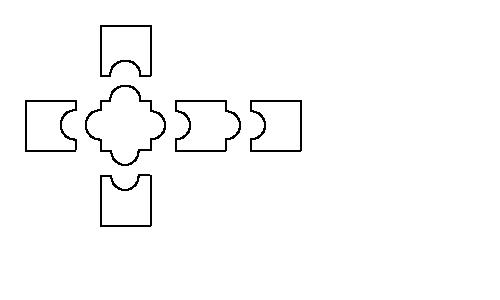
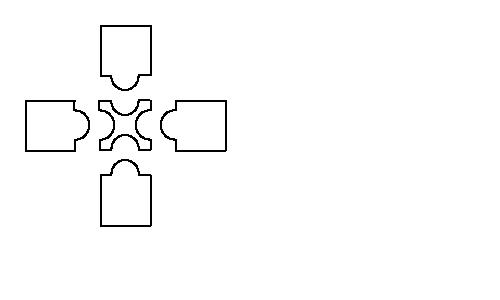
Added concave parameter to allow convex and concave.

Changed region(s): [[0.12, 0.21, 0.39, 0.66], [0.45, 0.33, 0.63, 0.51], [0.24, 0.18, 0.27, 0.21]]

diff --git a/backend/model/generate_training_data.py b/backend/model/generate_training_data.py
@@ -2,6 +2,7 @@ from PIL import Image, ImageDraw
 import math
 
 
+
 class Piece:
 
     pieces_count = 0
@@ -75,9 +76,8 @@ class Piece:
 
         return new_piece
 
-    def create_random_line_coordinates(self, starting_location, size, side):
+    def create_random_line_coordinates(self, starting_location, size, side, concave=True):
         new_lines = []
-
         arc_increment_size = 0.5
         diameter = (arc_increment_size * 180) / math.pi
 
@@ -87,7 +87,8 @@ class Piece:
             arc_starting_angle = 270
             line_size = (size[1]-diameter)/2
         elif side == Piece.BOTTOM:
-            line_angle = 0
+            starting_location = Piece.move_point(starting_location, self.piece_size[1], 0)
+            line_angle = 180
             arc_starting_angle = 90
             line_size = (size[1]-diameter)/2
         elif side == Piece.RIGHT:
@@ -95,7 +96,8 @@ class Piece:
             arc_starting_angle = 0
             line_size = (size[1]-diameter)/2
         elif side == Piece.LEFT:
-            line_angle = 90
+            starting_location = Piece.move_point(starting_location, self.piece_size[0], 90)
+            line_angle = 270
             arc_starting_angle = 180
             line_size = (size[0]-diameter)/2
         else:
@@ -105,24 +107,23 @@ class Piece:
         last_line = self.create_line_coordinates(starting_location, line_size, line_angle)
         new_lines.append(last_line)
 
-        # Draw arc; LEFT and BOTTOM sides will draw in opposite directions than RIGHT and TOP
-        if side == Piece.BOTTOM or side == Piece.LEFT:
-            # Draw an arc
+        # Draw arc
+        if not concave:
+            for a in range(arc_starting_angle, arc_starting_angle+90, 2):
+                last_line = self.create_line_coordinates(last_line, 0.5, a)
+                new_lines.append(last_line)
+            for a in range(arc_starting_angle+91, arc_starting_angle+182, 2):
+                last_line = self.create_line_coordinates(last_line, 0.5, a)
+                new_lines.append(last_line)
+        else:
+            arc_starting_angle += 540
             for a in range(arc_starting_angle, arc_starting_angle-90, -2):
                 last_line = self.create_line_coordinates(last_line, 0.5, a)
                 new_lines.append(last_line)
             for a in range(arc_starting_angle-91, arc_starting_angle-182, -2):
                 last_line = self.create_line_coordinates(last_line, 0.5, a)
                 new_lines.append(last_line)
-        else:
-            # Draw an arc
-            for a in range(arc_starting_angle, arc_starting_angle+92, 2):
-                last_line = self.create_line_coordinates(last_line, 0.5, a)
-                new_lines.append(last_line)            
-            for a in range(arc_starting_angle+90, arc_starting_angle+182, 2):
-                last_line = self.create_line_coordinates(last_line, 0.5, a)
-                new_lines.append(last_line)
-
+        
         # Draw Line
         last_line = self.create_line_coordinates(last_line, line_size, line_angle)
         new_lines.append(last_line)
@@ -180,6 +181,22 @@ class Piece:
 
         return new_lines
 
+    @classmethod
+    def move_line(Piece, line_coordinates, size, direction):
+        # Calculate x, y shift based on direction and size
+        opposite = math.sin(math.radians(direction)) * size
+        adjacent = math.cos(math.radians(direction)) * size
+
+        return (line_coordinates[0]+adjacent, line_coordinates[1]+opposite, line_coordinates[2]+adjacent, line_coordinates[3]+opposite)
+
+    @classmethod
+    def move_point(Piece, point_coordinates, size, direction):
+        # Calculate x, y shift based on direction and size
+        opposite = math.sin(math.radians(direction)) * size
+        adjacent = math.cos(math.radians(direction)) * size
+
+        return (point_coordinates[0]+adjacent, point_coordinates[1]+opposite)
+
 
 def main():
     # Init background image
@@ -187,12 +204,13 @@ def main():
 
     first_piece = Piece((100, 100), (50, 50), None, None, None, im)
     first_piece.add_side("left")
-    first_piece.add_side("top")
     first_piece.add_side("bottom")
+    first_piece.add_side("top")
+    first_piece.add_side("right")
     
-    right_piece = first_piece.add_side("right")
+    # right_piece = first_piece.add_side("right")
 
-    right_piece.add_side("right")
+    # right_piece.add_side("right")
 
     # Draw each connected piece
     first_piece.draw_recursively()

diff --git a/backend/model/.#generate_training_data.py b/backend/model/.#generate_training_data.py
@@ -1,0 +1,1 @@
+jordanhuus@Jordans-MacBook-Pro.local.59692
